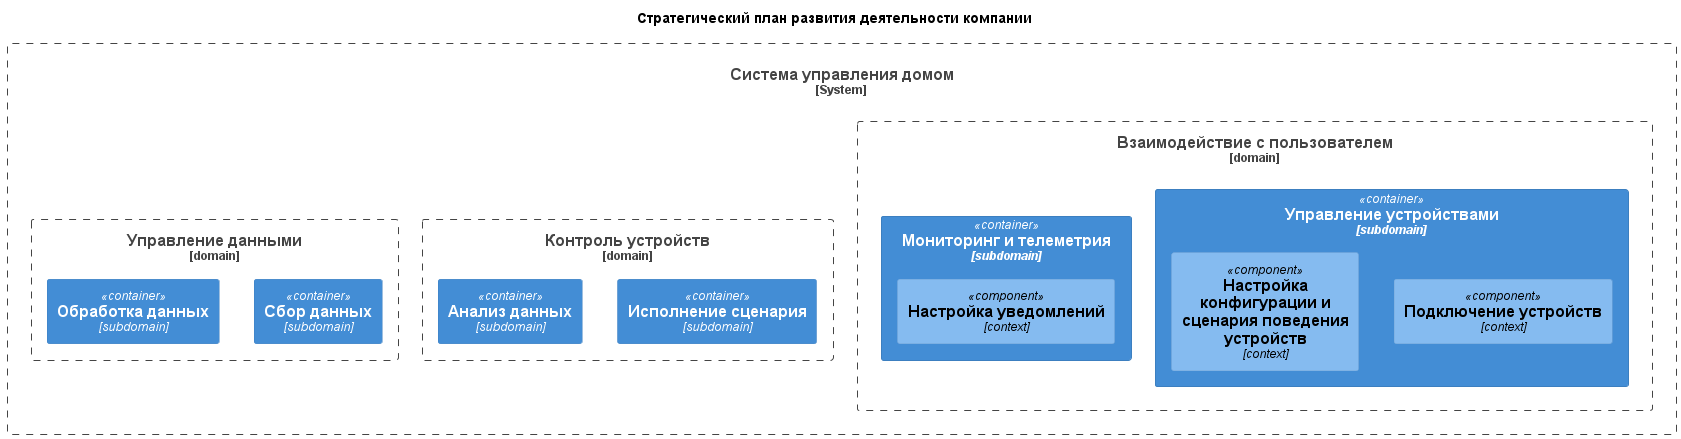
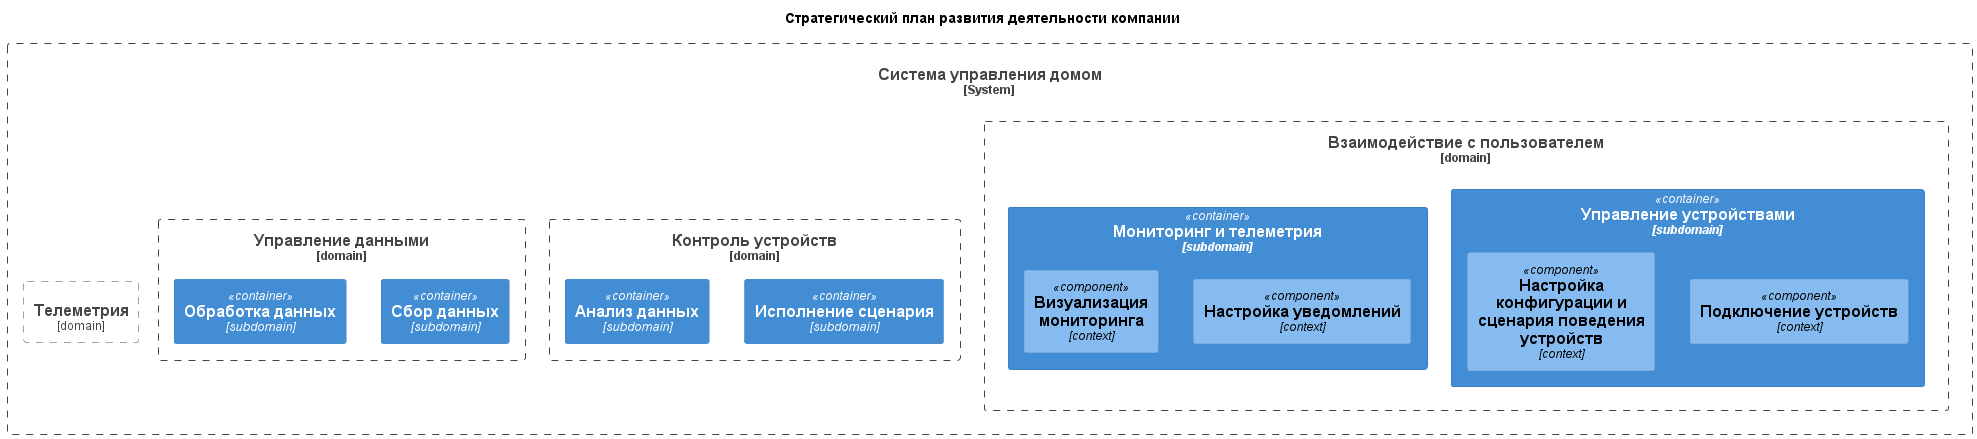
1.2

diff --git a/README.md b/README.md
@@ -4,7 +4,7 @@ _Подзадание 1.1_
 
 ---
 
-# Текущее состояние
+# As Is
 
 ## Параметры приложения
 
@@ -24,7 +24,7 @@ _Подзадание 1.1_
 
 ![C4 диаграмма](./arch/current%20state/context as is.png)
 
-## Деятельность компании As Is
+## Деятельность компании
 
 Области деятельности компании в текущий момент ограничены следующими доменами:
 
@@ -38,9 +38,7 @@ _Подзадание 1.1_
 
 ![Домены](./arch/current%20state/domains as is.png)
 
-# Стратегическое планирование
-
-## To Be
+# To Be
 
 В целевом состоянии экосистема должна быть доступна пользователю в режиме самообслуживания по модели SaaS.
 
@@ -52,6 +50,25 @@ _Подзадание 1.1_
 
 Работы по веб-разработке выполняет сторонняя команда.
 
+## Стратегическое планирование деятельности компании
+
+Для достижения целевого состояния предлагается расширить деятельность компании до следующего состояния:
+
+1. Домен: Взаимодействие с пользователем
+   1. Субдомен: Управление устройствами
+      1. Контекст: Подключение устройств
+      2. Контекст: Настройка конфигурации и сценария поведения устройств
+   2. Субдомен: Мониторинг и телеметрия
+      1. Контекст: Настройка уведомлений
+      2. Контекст: Визуализация мониторинга
+2. Домен: Контроль устройств
+    1. Субдомен: Исполнение сценария
+    2. Субдомен: Анализ данных
+3. Домен: Управление данными
+    1. Субдомен: Обработка данных
+    2. Субдомен: Сбор данных
+4. Телеметрия
+
 ![Домены to be](./arch/current%20state/domains%20to%20be.png)
 
 ---
@@ -61,6 +78,9 @@ _Подзадание 1.2_
 ---
 
 ### Визуализация архитектуры
+
+На основе выделенных доменов и функциональных блоков спроектирована высокоуровневая архитектура новой экосистемы, 
+основанную на микросервисах
 
 Детальный просмотр - в [формате drawio](./arch/current%20state/context%20to%20be.drawio)
 
